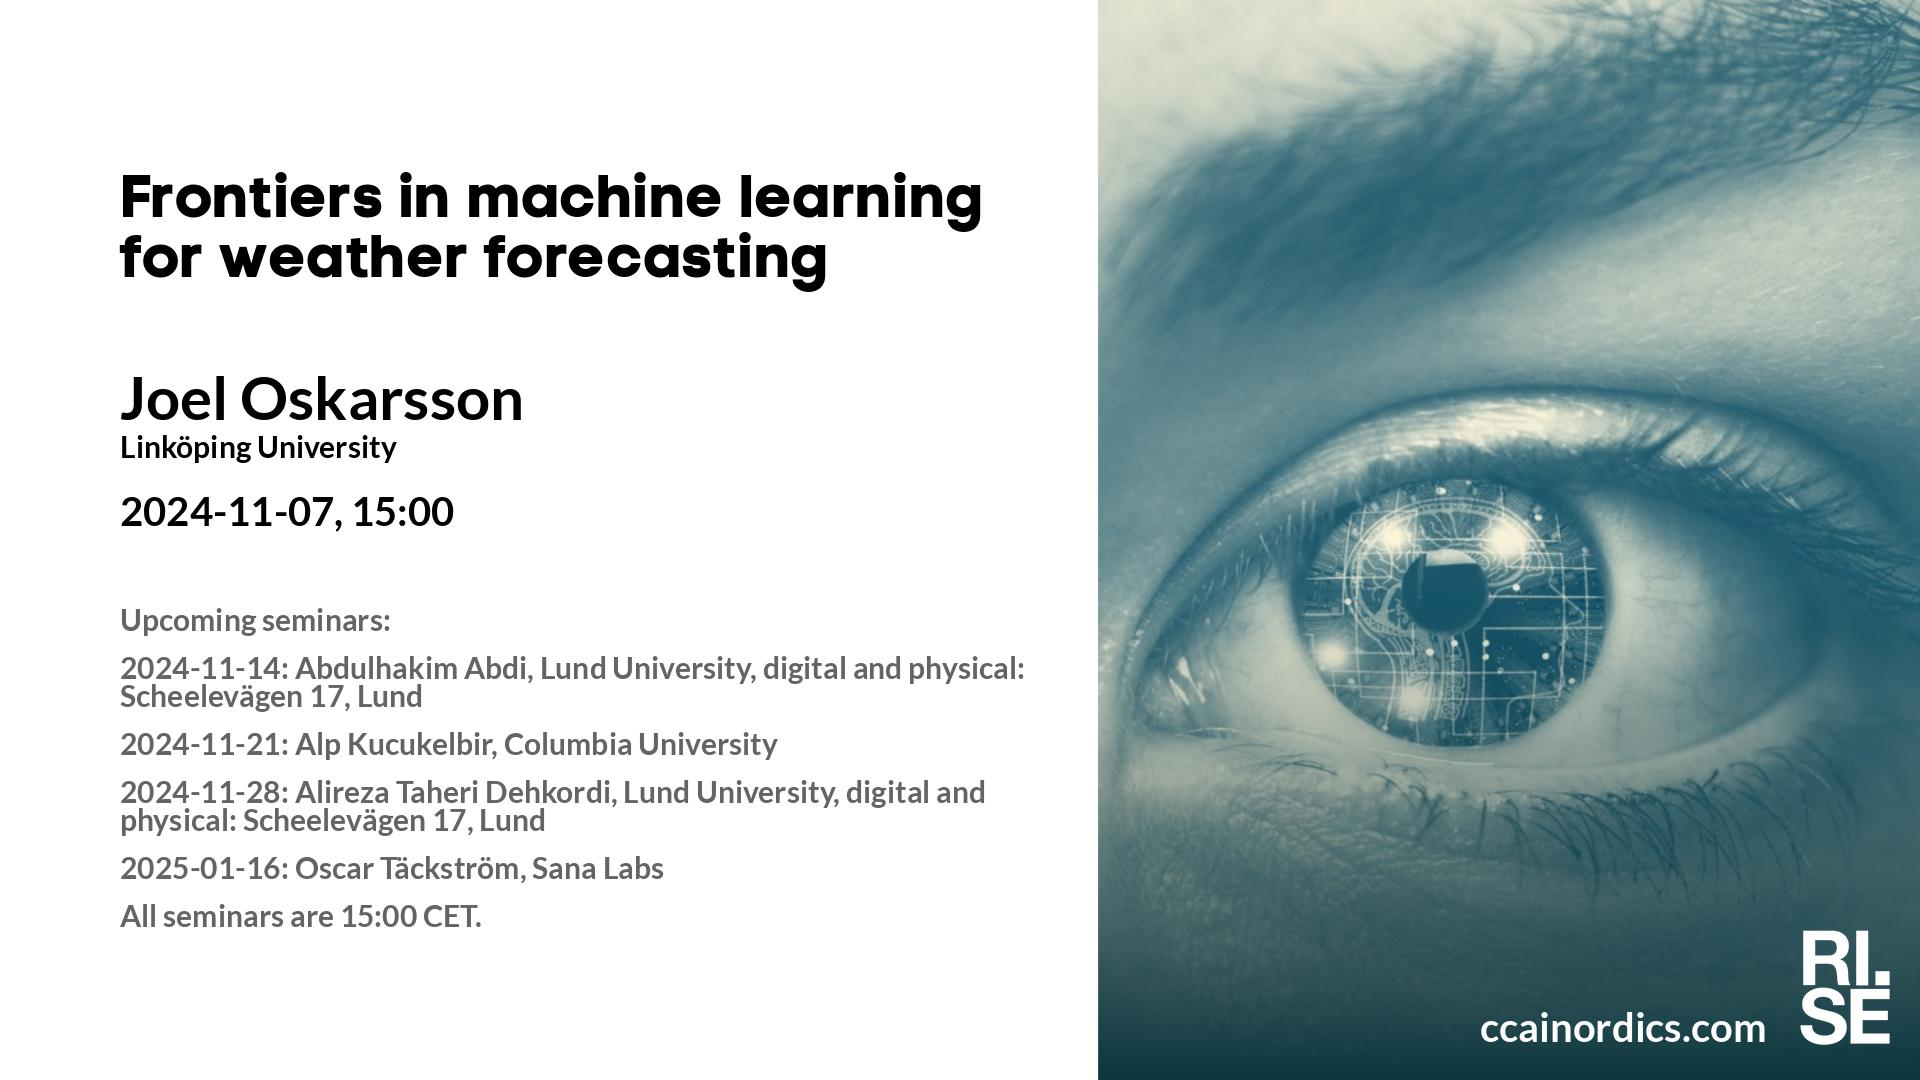
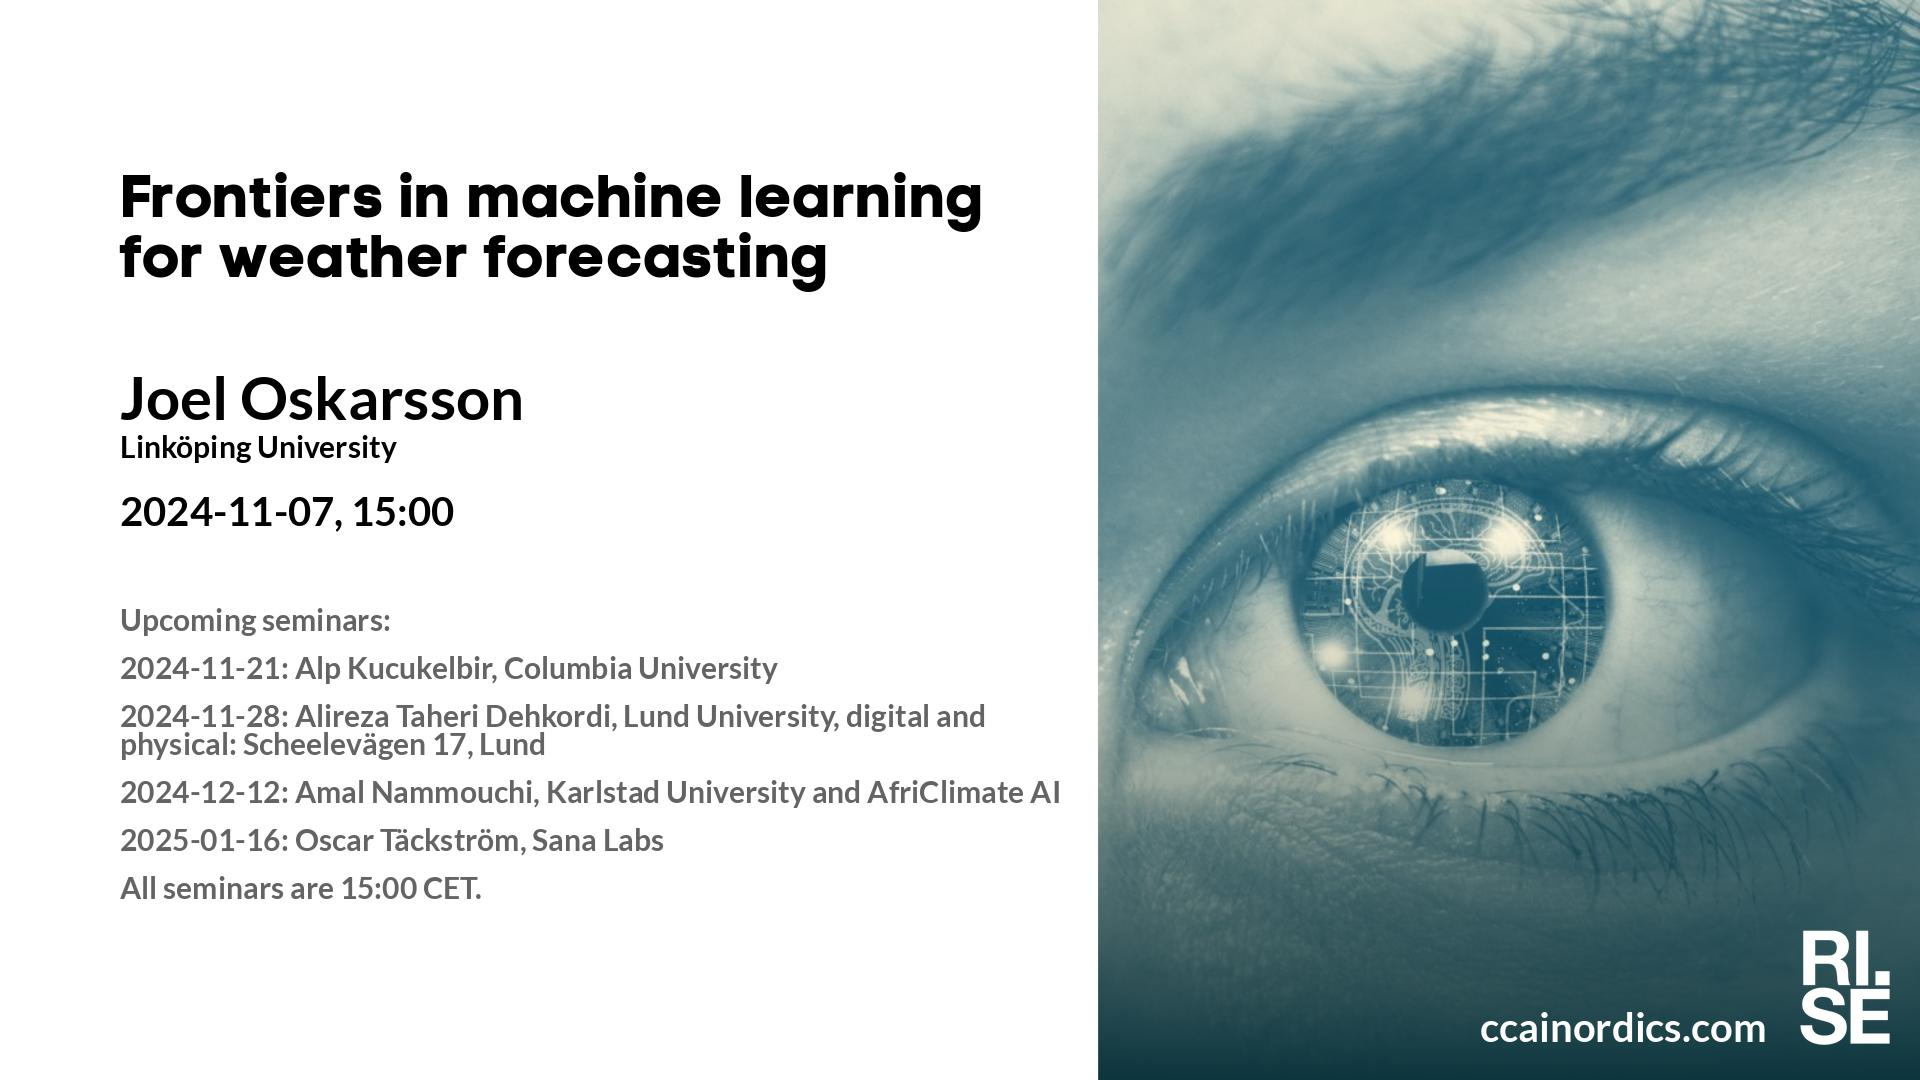
Updated plan on web site.

Changed region(s): [[0.0625, 0.6111, 0.5625, 0.8556]]

diff --git a/lm/index.md b/lm/index.md
@@ -11,7 +11,7 @@ table {border-collapse: collapse;}
 | ---- | ----------------------------------------- | ----- | ----- | ----- | ----- | -------------- |
 | <span style="color:red"> 2024-10-31 </span> | <span style="color:red"> Höstlov </span> | <span style="color:red">  </span> | <span style="color:red">  </span> | <span style="color:red">  </span> | <span style="color:red">  </span> | <span style="color:red"> CANCELLED </span> |
 |  2024-11-07  |  [Joel Oskarsson, Linköping University](2024-11-07.md)  |  [photo](photo-joel-oskarsson.jpg)  |  [social media ](social-media-joel-oskarsson.jpg)  |  [meeting backdrop ](meeting-backdrop-joel-oskarsson.jpg)  |  [youtube thumbnail ](youtube-thumbnail-joel-oskarsson.jpg)  |  STABP  |
-|  2024-11-14  |  [Abdulhakim Abdi, Lund University](2024-11-14.md)  |  [photo](photo-abdulhakim-abdi.jpg)  |  [social media ](social-media-abdulhakim-abdi.jpg)  |  [meeting backdrop ](meeting-backdrop-abdulhakim-abdi.jpg)  |  [youtube thumbnail ](youtube-thumbnail-abdulhakim-abdi.jpg)  |  S~~TAB~~P  |
+| <span style="color:purple"> 2024-11-14 </span> | <span style="color:purple"> *Up for grabs!!!* </span> | <span style="color:purple">  </span> | <span style="color:purple">  </span> | <span style="color:purple">  </span> | <span style="color:purple">  </span> | <span style="color:purple"> ~~STABP~~ </span> |
 |  2024-11-21  |  [Alp Kucukelbir, Columbia University](2024-11-21.md)  |  [photo](photo-alp-kucukelbir.jpg)  |  [social media ](social-media-alp-kucukelbir.jpg)  |  [meeting backdrop ](meeting-backdrop-alp-kucukelbir.jpg)  |  [youtube thumbnail ](youtube-thumbnail-alp-kucukelbir.jpg)  |  STABP  |
 |  2024-11-28  |  [Alireza Taheri Dehkordi, Lund University](2024-11-28.md)  |  [photo](photo-alireza-taheri-dehkordi.jpg)  |  [social media ](social-media-alireza-taheri-dehkordi.jpg)  |  [meeting backdrop ](meeting-backdrop-alireza-taheri-dehkordi.jpg)  |  [youtube thumbnail ](youtube-thumbnail-alireza-taheri-dehkordi.jpg)  |  STABP  |
 | <span style="color:grey"> 2024-12-05 </span> | <span style="color:grey"> Jonas A. ? </span> | <span style="color:grey">  </span> | <span style="color:grey">  </span> | <span style="color:grey">  </span> | <span style="color:grey">  </span> | <span style="color:grey"> S~~TABP~~ </span> |
@@ -20,7 +20,7 @@ table {border-collapse: collapse;}
 | <span style="color:red"> 2024-12-26 </span> | <span style="color:red"> Jullov </span> | <span style="color:red">  </span> | <span style="color:red">  </span> | <span style="color:red">  </span> | <span style="color:red">  </span> | <span style="color:red"> CANCELLED </span> |
 |  2025-01-16  |  [Oscar Täckström, Sana Labs](2025-01-16.md)  |    |  [social media ](social-media-oscar-tackstrom.jpg)  |  [meeting backdrop ](meeting-backdrop-oscar-tackstrom.jpg)  |  [youtube thumbnail ](youtube-thumbnail-oscar-tackstrom.jpg)  |  S~~TABP~~  |
 |  2025-01-23  |  [Newton Mwai Kinyanjui, Chalmers University of Technology](2025-01-23.md)  |    |  [social media ](social-media-newton-mwai-kinyanjui.jpg)  |  [meeting backdrop ](meeting-backdrop-newton-mwai-kinyanjui.jpg)  |  [youtube thumbnail ](youtube-thumbnail-newton-mwai-kinyanjui.jpg)  |  S~~TABP~~  |
-| <span style="color:purple"> 2025-01-30 </span> | <span style="color:purple"> *Up for grabs!!!* </span> | <span style="color:purple">  </span> | <span style="color:purple">  </span> | <span style="color:purple">  </span> | <span style="color:purple">  </span> | <span style="color:purple"> ~~STABP~~ </span> |
+| <span style="color:grey"> 2025-01-30 </span> | <span style="color:grey"> Abdulhakim A. ? </span> | <span style="color:grey">  </span> | <span style="color:grey">  </span> | <span style="color:grey">  </span> | <span style="color:grey">  </span> | <span style="color:grey"> S~~TABP~~ </span> |
 | <span style="color:purple"> 2025-02-06 </span> | <span style="color:purple"> *Up for grabs!!!* </span> | <span style="color:purple">  </span> | <span style="color:purple">  </span> | <span style="color:purple">  </span> | <span style="color:purple">  </span> | <span style="color:purple"> ~~STABP~~ </span> |
 | <span style="color:red"> 2025-02-13 </span> | <span style="color:red"> Sportlov GBG </span> | <span style="color:red">  </span> | <span style="color:red">  </span> | <span style="color:red">  </span> | <span style="color:red">  </span> | <span style="color:red"> CANCELLED </span> |
 | <span style="color:purple"> 2025-02-20 </span> | <span style="color:purple"> *Up for grabs!!!* </span> | <span style="color:purple">  </span> | <span style="color:purple">  </span> | <span style="color:purple">  </span> | <span style="color:purple">  </span> | <span style="color:purple"> ~~STABP~~ </span> |

diff --git a/lm/2024-11-07.md b/lm/2024-11-07.md
@@ -25,9 +25,9 @@ This seminar is a collaboration with CCAI Nordics -- [ccainordics.com](https://c
 
 **Upcoming seminars:**
 
-* 2024-11-14: Abdulhakim Abdi, Lund University, **digital and physical: Scheelevägen 17, Lund**
 * 2024-11-21: Alp Kucukelbir, Columbia University
 * 2024-11-28: Alireza Taheri Dehkordi, Lund University, **digital and physical: Scheelevägen 17, Lund**
+* 2024-12-12: Amal Nammouchi, Karlstad University and AfriClimate AI
 * 2025-01-16: Oscar Täckström, Sana Labs
 * All seminars are 15:00 CET.
 
